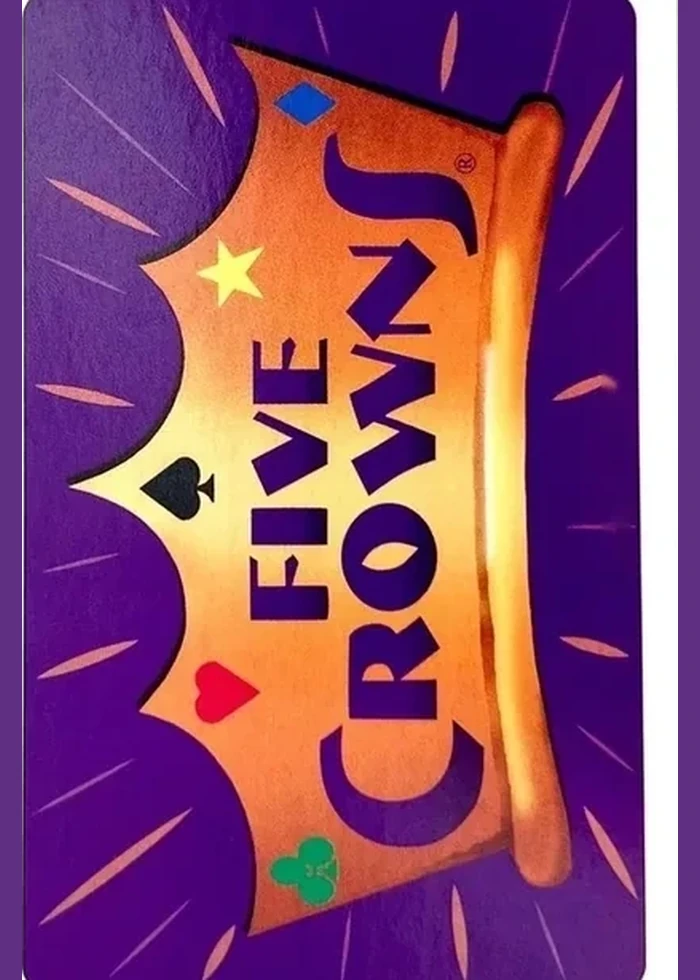
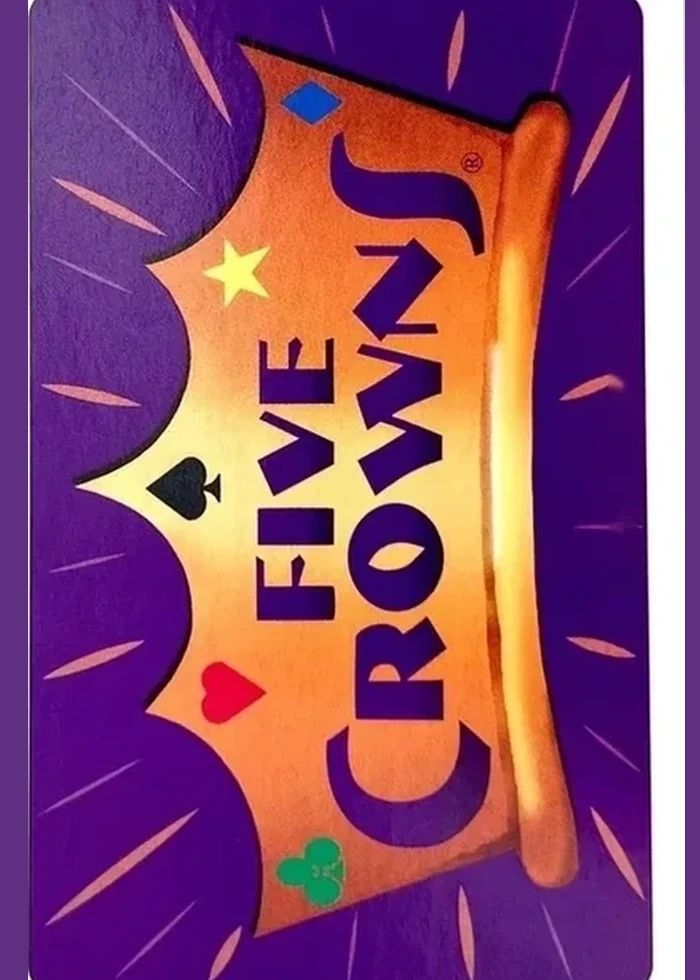
Give Tonight's Table room for first names and keep Start inside the panel.

diff --git a/public/assets/card-picker.css b/public/assets/card-picker.css
@@ -19,7 +19,7 @@ html.slice2-tv .s2-home-start .s2-game-grid {
   gap: 12px 10px;
   width: 100%;
   min-width: 0;
-  min-height: min-content;
+  min-height: 0;
   padding: 8px;
   box-sizing: border-box;
 }
@@ -108,32 +108,54 @@ html.slice2-tv .s2-seat-grid {
   min-height: min-content;
 }
 
-/* iPad landscape + TV: start column gets the width; cards fill their cells. */
+/* Columns first. Cards take leftover height. Start bar stays inside the panel. */
 @media (min-width: 861px) {
   html.slice2-tv .s2-home-grid {
-    grid-template-columns: minmax(300px, 0.7fr) minmax(0, 1.45fr);
-    grid-template-rows: minmax(min-content, auto);
+    grid-template-columns: minmax(348px, 360px) minmax(0, 1fr);
+    grid-template-rows: minmax(0, auto);
+    align-items: stretch;
   }
 
+  html.slice2-tv .s2-home-table,
   html.slice2-tv .s2-home-start {
-    height: auto;
-    min-height: min-content;
-    align-self: start;
+    min-height: 0;
+    align-self: stretch;
   }
 
   html.slice2-tv .s2-home-table {
     height: auto;
-    max-height: calc(100dvh - 14.5rem);
-    min-height: 0;
+    max-height: calc(100dvh - 8.75rem);
+  }
+
+  html.slice2-tv .s2-home-start {
+    height: 100%;
+    max-height: calc(100dvh - 8.75rem);
+  }
+
+  html.slice2-tv .s2-home-table {
     overflow: auto;
-    align-self: start;
+  }
+
+  html.slice2-tv .s2-home-start {
+    overflow: hidden;
+    display: flex;
+    flex-direction: column;
+  }
+
+  html.slice2-tv .s2-home-start .s2-panel-head,
+  html.slice2-tv .s2-home-start .s2-startbar {
+    flex: 0 0 auto;
+  }
+
+  html.slice2-tv .s2-home-start .s2-startbar {
+    margin-top: 10px;
   }
 
   html.slice2-tv .s2-home-start .s2-game-grid {
-    flex: 1 1 auto;
+    flex: 0 0 auto;
+    min-height: 0;
     align-content: start;
     justify-content: start;
-    min-height: min-content;
   }
 
   html.slice2-tv .s2-home-start .s2-game {
@@ -143,31 +165,49 @@ html.slice2-tv .s2-seat-grid {
   html.slice2-tv .s2-home-start .s2-card-frame {
     width: min(100%, var(--bp-card-max));
   }
+
+  html.slice2-tv .s2-home-table .s2-seat {
+    grid-template-columns: 1.4rem 36px minmax(6.75rem, 1fr) auto;
+    gap: 8px;
+    padding: 8px 10px;
+  }
+
+  html.slice2-tv .s2-home-table .s2-seat .avatar-img {
+    width: 36px;
+    height: 36px;
+  }
+
+  html.slice2-tv .s2-home-table .s2-seat-nudge,
+  html.slice2-tv .s2-home-table .s2-seat-out,
+  html.slice2-tv .s2-home-table .s2-seat-handle {
+    width: 26px;
+    height: 26px;
+  }
+
+  html.slice2-tv .s2-home-table .s2-seat-name {
+    overflow: hidden;
+    text-overflow: clip;
+    white-space: nowrap;
+  }
 }
 
-/* Short landscape: natural seat rows that scroll; cards grow but Start stays on screen. */
 @media (min-width: 861px) and (max-height: 820px) {
-  html.slice2-tv .s2-home-table,
   html.slice2-tv .s2-home-start {
-    max-height: calc(100dvh - 14.5rem);
-    min-height: 0;
+    padding: 12px;
   }
 
-  html.slice2-tv .s2-home-table {
-    overflow: auto;
-    align-self: start;
+  html.slice2-tv .s2-home-start .s2-panel-head {
+    margin-bottom: 8px;
   }
 
-  html.slice2-tv .s2-home-start {
-    align-self: start;
+  html.slice2-tv .s2-home-start .s2-game-grid {
+    padding: 4px;
+    gap: 8px;
   }
 
-  html.slice2-tv .s2-seat-grid {
-    flex: 0 0 auto;
-    min-height: min-content;
-    overflow: visible;
-    align-content: start;
-    grid-auto-rows: auto;
+  html.slice2-tv .s2-home-start .s2-startbar {
+    margin-top: 8px;
+    padding-top: 8px;
   }
 
   html.slice2-tv .s2-home-start .s2-card-frame {
@@ -181,20 +221,31 @@ html.slice2-tv .s2-seat-grid {
   }
 
   html.slice2-tv .s2-home-grid {
-    grid-template-columns: minmax(280px, 0.58fr) minmax(0, 1.55fr);
+    grid-template-columns: minmax(348px, 400px) minmax(0, 1fr);
   }
 
-  html.slice2-tv .s2-home-table {
-    max-height: calc(100dvh - 16rem);
-    min-height: 0;
-    overflow: auto;
-    align-self: start;
-  }
-
+  html.slice2-tv .s2-home-table,
   html.slice2-tv .s2-home-start {
+    height: calc(100dvh - 16rem);
     max-height: calc(100dvh - 16rem);
-    min-height: min-content;
-    align-self: start;
+  }
+
+  html.slice2-tv .s2-home-table .s2-seat {
+    grid-template-columns: 1.75rem 44px minmax(7rem, 1fr) auto;
+    gap: 10px;
+    padding: 8px 12px;
+  }
+
+  html.slice2-tv .s2-home-table .s2-seat .avatar-img {
+    width: 44px;
+    height: 44px;
+  }
+
+  html.slice2-tv .s2-home-table .s2-seat-nudge,
+  html.slice2-tv .s2-home-table .s2-seat-out,
+  html.slice2-tv .s2-home-table .s2-seat-handle {
+    width: 32px;
+    height: 32px;
   }
 
   html.slice2-tv .s2-home-start .s2-game.is-selected .s2-card-frame {

diff --git a/scripts/fit-card-faces.py b/scripts/fit-card-faces.py
@@ -1,6 +1,7 @@
 #!/usr/bin/env python3
 """Trim each Home picker face to the real card edge and pad to exact 5:7."""
 
+import sys
 from pathlib import Path
 from PIL import Image
 import numpy as np
@@ -20,30 +21,42 @@ FACES = [
 ]
 
 
-def empty_mask(arr):
+def empty_mask(arr, keep_white=False):
     rgb = arr[:, :, :3].astype(np.int16)
     alpha = arr[:, :, 3]
-    near_white = (rgb.min(axis=2) >= 236) & ((rgb.max(axis=2) - rgb.min(axis=2)) <= 18)
     transparent = alpha < 24
+    if keep_white:
+        return transparent
+    near_white = (rgb.min(axis=2) >= 236) & ((rgb.max(axis=2) - rgb.min(axis=2)) <= 18)
     return near_white | transparent
 
 
-def trim_card(im):
+def trim_card(im, keep_white=False, extra_inset=(0, 0, 0, 0), body=None):
     arr = np.array(im.convert("RGBA"))
-    empty = empty_mask(arr)
-    content = ~empty
+    if body == "navy":
+        rgb = arr[:, :, :3].astype(np.int16)
+        content = (rgb[:, :, 2] > 70) & (rgb[:, :, 0] < 90) & (rgb[:, :, 1] < 90)
+    else:
+        content = ~empty_mask(arr, keep_white=keep_white)
     if not content.any():
         return im.convert("RGBA")
     rows = np.where(content.any(axis=1))[0]
     cols = np.where(content.any(axis=0))[0]
     top, bot = int(rows[0]), int(rows[-1]) + 1
     left, right = int(cols[0]), int(cols[-1]) + 1
-    # Drop a 1px anti-alias fringe when the crop is not already tight to the bitmap.
-    if bot - top > 8 and right - left > 8:
+    if body == "navy":
+        pass
+    elif bot - top > 8 and right - left > 8:
         top = min(top + 1, bot - 4)
         left = min(left + 1, right - 4)
         bot = max(bot - 1, top + 4)
         right = max(right - 1, left + 4)
+    left += extra_inset[0]
+    top += extra_inset[1]
+    right -= extra_inset[2]
+    bot -= extra_inset[3]
+    if right - left < 8 or bot - top < 8:
+        return im.convert("RGBA")
     return Image.fromarray(arr[top:bot, left:right], "RGBA")
 
 
@@ -64,27 +77,47 @@ def edge_fill(im):
     return (int(med[0]), int(med[1]), int(med[2]), 255)
 
 
-def pad_to_target(im, fill):
+def pad_to_target(im, fill, cover=False):
     im = im.convert("RGBA")
-    scale = min(TARGET[0] / im.width, TARGET[1] / im.height)
+    if cover:
+        scale = max(TARGET[0] / im.width, TARGET[1] / im.height)
+    else:
+        scale = min(TARGET[0] / im.width, TARGET[1] / im.height)
     new_size = (max(1, round(im.width * scale)), max(1, round(im.height * scale)))
     resized = im.resize(new_size, Image.Resampling.LANCZOS)
     canvas = Image.new("RGBA", TARGET, fill)
-    canvas.paste(resized, ((TARGET[0] - new_size[0]) // 2, (TARGET[1] - new_size[1]) // 2), resized)
+    x = (TARGET[0] - new_size[0]) // 2
+    y = (TARGET[1] - new_size[1]) // 2
+    canvas.paste(resized, (x, y), resized)
     return canvas.convert("RGB")
+
+
+FACE_OPTS = {
+    "wizard.webp": {"body": "navy", "cover": True, "fill": (8, 18, 72, 255)},
+    "five-crowns.webp": {"extra_inset": (0, 0, 14, 0), "fill": (95, 47, 130, 255)},
+}
 
 
 def main():
     ROOT.mkdir(parents=True, exist_ok=True)
+    only = set(sys.argv[1:])
     for name in FACES:
+        if only and name not in only and name.removesuffix(".webp") not in only:
+            continue
         src = ROOT / name
         im = Image.open(src)
         print(f"{name:22} in {im.size[0]}x{im.size[1]} {im.mode}")
-        trimmed = trim_card(im)
-        fill = edge_fill(trimmed)
+        opts = FACE_OPTS.get(name, {})
+        trimmed = trim_card(
+            im,
+            keep_white=bool(opts.get("keep_white")),
+            extra_inset=opts.get("extra_inset", (0, 0, 0, 0)),
+            body=opts.get("body"),
+        )
+        fill = opts.get("fill") or edge_fill(trimmed)
         if fill[3] < 80:
             fill = CREAM
-        out = pad_to_target(trimmed, fill)
+        out = pad_to_target(trimmed, fill, cover=bool(opts.get("cover")))
         out.save(src, "WEBP", quality=90, method=6)
         print(f"{name:22} out {out.size[0]}x{out.size[1]} fill {fill} trim {trimmed.size}")
 

diff --git a/AGENTS.md b/AGENTS.md
@@ -44,7 +44,7 @@ North star: crush requirements so one-shots get better every correction.
 - A hidden scorecard column is not a deleted hand. If Pace or the column trim removes the hand a Life Preserver followed, the mark sits with Total. Place ties use the same numeric comparison as the sort, including numeric strings. See `docs/solutions/scorecard-places-and-life-preserver.md`.
 - Life Preserver labels stay inside every slice. About 20-40 equal-ish pockets. Category shares stay exact via subtle widths; the draw still uses the live 45/30/5/12/8 table. No callouts, leader lines, or casino red/black. Cute cream/teal toy roulette, not casino chrome. Size the modal from leftover viewport so Use Your One Spin stays on screen. Proposed 30/45/10/15 amounts stay behind `?demo&lp=proposed`. See `docs/solutions/rc1-lp-roulette-wheel.md`.
 - Laptop Home columns stretch to the same height. Seats are one per row and reorder in the list. Recent nights stays full width. Home reorder writes `players` only; it does not restack an active match. See `docs/solutions/home-recent-nights-column.md`.
-- Home picker faces are upright 5:7 cards with one shared outer size, ~10px radius, and a 220px TV cap. Faces are pre-padded 5:7 webps with `object-fit: cover`. No leftover porch tiles. No name or rule under the cards. Select, then Start. Seat rows keep their natural height. The table scrolls; the seat grid never shrinks behind chips. See `docs/solutions/card-picker.md`.
+- Home picker faces are upright 5:7 cards with one shared outer size, ~10px radius, and a 220px TV cap. Faces are pre-padded 5:7 webps with `object-fit: cover`. No leftover porch tiles. No name or rule under the cards. Select, then Start. Lay out the Home columns first; cards take leftover space. Tonight's Table stays wide enough for first names. The Start bar stays inside the panel. See `docs/solutions/card-picker.md`.
 - NAME-FIT uses one shared column size. Shrink for a long name. Do not grow a short name past that size. Saved is not a nav slot. Life Preserver header copy states the computed spin range; negative slices stay.
 - Bid accuracy uses the stored bid and actual on a played round. A missing bid or actual is unknown, not a guess from the score. A Life Preserver, including a zero-point spin, marks the match assisted until undo removes the last spin. A historical trick correction uses that round's players and must not replace a different live match. See `docs/solutions/data-integrity-records.md`.
 - A cloud revision or sync redesign waits for a named ticket or PR intent. This release is local-only: the client does not call `/api/sync`. `api/sync.js` and Redis `gamenight:backup:v1` stay untouched. `#37` stays parked. See `docs/solutions/rc1-local-only.md`.

diff --git a/docs/solutions/card-picker.md b/docs/solutions/card-picker.md
@@ -8,8 +8,8 @@ Matt's Home picker is seven upright 5:7 card backs. The cards speak for themselv
 - The frame does not carry `s2-art-*`. Old porch/tropical tile backgrounds stay off the picker.
 - Faces live in `public/assets/cards/*.webp`. Select, then Start.
 - iPad landscape 1024×768 and TV 1920×1080 are the primary layouts (landscape iPad mirrored to TV). Portrait and phone must not break.
-- 1024 is 4+3. Cards fill their cells up to 220px. Start stays on screen. No dead band under the cards.
-- Tonight's Table rows keep their natural height. The table scrolls when the list is long. The seat grid never shrinks behind chips and never uses `1fr` rows.
+- Columns first, then cards. Tonight's Table is 348–360px at 1024 so first names stay whole. The seven 5:7 cards take leftover space (4+3). The Start bar stays inside Start a New Match.
+- Tonight's Table rows keep their natural height. The table scrolls when the list is long. Four seated shows every chip. The seat grid never shrinks behind chips and never uses `1fr` rows.
 - Home Saved chip says `✓ Saved` and sits in Tonight's Table so it never covers Game Instructions.
 
 ## Do not

diff --git a/docs/taste.md b/docs/taste.md
@@ -42,7 +42,7 @@ Canonical list: [taste-ledger.md](taste-ledger.md). After every durable Matt cor
 
 - A Home picker grid that overflows Start a New Match, or a dead band between the cards and Start at 1024 landscape.
 - Old porch or tropical tiles showing through beside a picker face, or a white sliver on Five Crowns.
-- Tonight's Table seat rows that compress, overlap, clip the dealer pill, or hide seated people behind chips.
+- Tonight's Table seat rows that compress, overlap, clip the dealer pill, hide seated people behind chips, or truncate names to an initial.
 - Calling ready without opening the real UI.
 - Ready-to-test language without a filled [prove-it packet](prove-it-packet.md).
 - Overlap, uneven gaps, truncated text, or clipped menus.

diff --git a/docs/taste-ledger.md b/docs/taste-ledger.md
@@ -38,7 +38,7 @@ Seeded from Prefer, Avoid, and Kill in `docs/taste.md`. Product rules stay in `d
 
 - A Home picker grid that overflows Start a New Match, or a dead band between the cards and Start at 1024 landscape.
 - Old porch or tropical tiles showing through beside a picker face, or a white sliver on Five Crowns.
-- Tonight's Table seat rows that compress, overlap, clip the dealer pill, or hide seated people behind chips.
+- Tonight's Table seat rows that compress, overlap, clip the dealer pill, hide seated people behind chips, or truncate names to an initial.
 - Calling ready without opening the real UI.
 - Ready-to-test language without a filled `docs/prove-it-packet.md`.
 - Overlap, uneven gaps, truncated text, or clipped menus.
